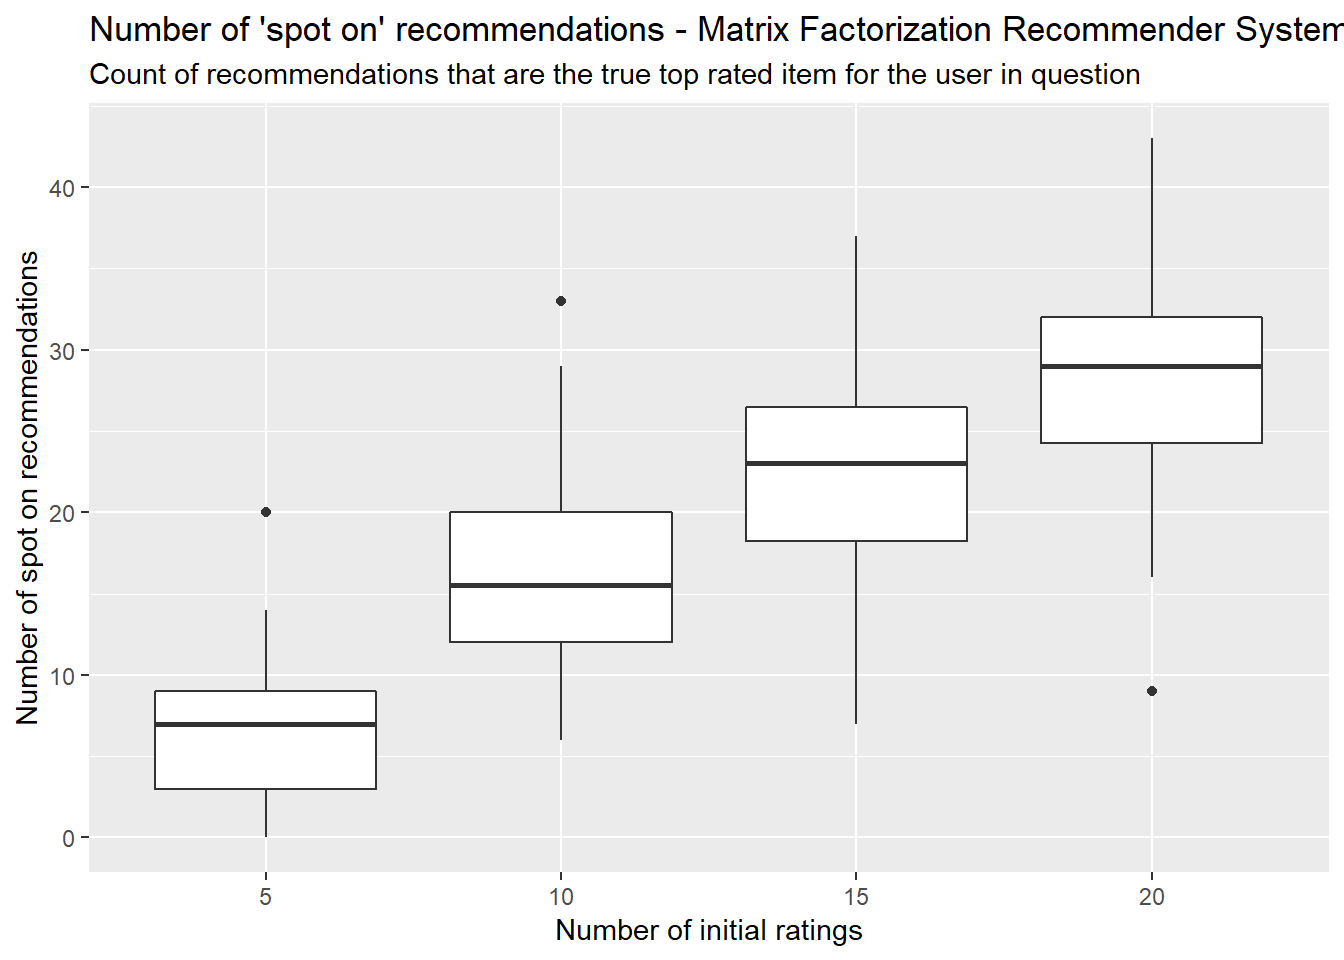
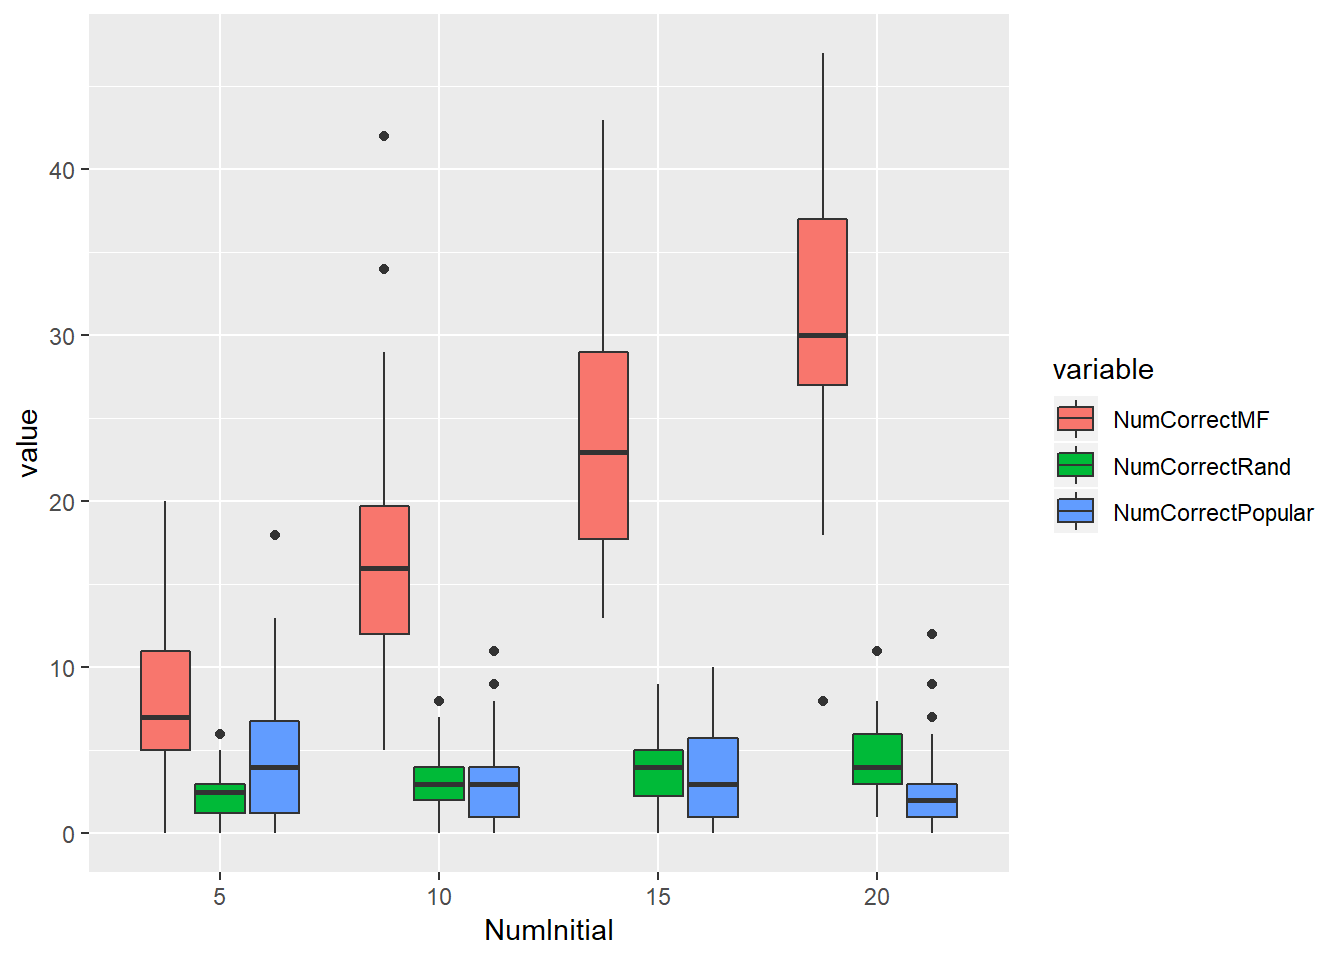
mh update

diff --git a/MHRecSys.html b/MHRecSys.html
@@ -214,11 +214,10 @@ $(document).ready(function () {
 
 <div id="set-up" class="section level2">
 <h2>1. Set-up</h2>
-<p>We first set a number of items, <span class="math inline">\(I\)</span>, and a number of users, <span class="math inline">\(U\)</span>, and decide how many items each user will have rated. The more items have been rated, the easier the unobserved ratings should be to infer. In this particular example we suppose that each item is a story that can be recommended to a user, although the techniques we are using can be used across many applications.</p>
+<p>We want to test how well a recommender system can detect some structure in the ratings of a population - i.e. how it can pick up similarities and patterns in the preferences of users. To assess this we will build a simple dataset that we know has some such structure in it, and therefore something that we may expect a reasonable method to be able to predict. We first set a number of items, <span class="math inline">\(I\)</span>, and a number of users, <span class="math inline">\(U\)</span>, and decide how many items each user will have rated. The more items have been rated, the easier the unobserved ratings should be to infer. In this particular example we suppose that each item is a story that can be recommended to a user, although the techniques we are using can be used across many applications.</p>
 <pre class="r"><code>n.items    &lt;- 40             # Number of items
 n.users    &lt;- 100            # Number of users
 n.initial  &lt;- 10             # Number of initial ratings (less than n.items)</code></pre>
-<p>We want to test how well a recommender system can detect some structure in the ratings of a population - i.e. how it can pick up similarities and patterns in the preferences of users. To assess this we will build a simple dataset that we know has some such structure in it, and therefore something that we may expect a reasonable method to be able to predict.</p>
 <p>Each user <span class="math inline">\(u\)</span> assigns a rating <span class="math inline">\(R_{ui}\)</span> to each item <span class="math inline">\(i\)</span>. The higher the rating, the more the user “likes” the item. We assume that ratings are generated from a linear model based on attributes of the users, and of the items.</p>
 <p>In particular, we assume that a user <span class="math inline">\(u\)</span> has two relevant binary attributes <span class="math inline">\(\beta_{u,1},\beta_{u,2}\)</span> which each are coded as 1 or -1. These could be things like whether they are over/under 25 years of age or their sex.</p>
 <p>Each item has two relevant attributes <span class="math inline">\(\gamma_{i,1}, \gamma_{i,2}\)</span> which take continuous values. These could be measures of things like how well a story captures the experiences of a particular sex or how relevant it is to younger people versus older people.</p>
@@ -243,7 +242,7 @@ for (i in 1:n.users){
 }
 # Transform to [0,1] scale
 true.ratings &lt;- apply(true.ratings,2,sigmoid)</code></pre>
-<p>We plot these ratings below in a heatmap - here darker colours represent higher ratings. Items are on the horizontal axis and users are on the vertical axis. The similarities within the groups, and the differences across them are quite clear. For the rest of this example, these ratings will be treated as ground truth, and we assume that if a user is recommended an item, they faithfully report their true rating of the item. Our objective is to recommend items to users that have high ratings.</p>
+<p>We plot these ratings below in a heatmap - here lighter colours represent higher ratings. Items are on the horizontal axis and users are on the vertical axis. The similarities within the groups, and the differences across them are quite clear. For the rest of this example, these ratings will be treated as ground truth, and we assume that if a user is recommended an item, they faithfully report their true rating of the item. Our objective is to recommend items to users that have high ratings.</p>
 <pre class="r"><code>ggplot(data = yy, aes(y=rowname, x=variable, fill=value)) + 
   geom_tile() +labs(x=&quot;Item&quot;,y=&quot;User&quot;,title=&quot;True Ratings&quot;) </code></pre>
 <p><img src="MHRecSys_files/figure-html/unnamed-chunk-5-1.png" width="672" /></p>
@@ -332,7 +331,7 @@ ggplot(data = xx, aes(y=rowname, x=variable, fill=value)) +
 <p>There are several ways to numerically evaluate the results. We may consider the root mean squared error (RMSE) of all the predictions:</p>
 <pre class="r"><code># Prediction accuracy - RMSE
 rmse(as.numeric(pred.ratings),as.numeric(true.ratings))</code></pre>
-<pre><code>## [1] 0.193662</code></pre>
+<pre><code>## [1] 0.205878</code></pre>
 <p>We could then compare this against the predictions from different models. Alternatively, we can look at the quality of the recommendations made by the model, which is arguably more important than its overall fit.</p>
 <p>Below, we consider recommending one item to each user. We choose the item with the highest predicted rating, amongst those that they have not previously rated for each user. We then calculate the number of times that this recommendation is the item that they truly would have rated highest (among those their rating hasn’t been revealed for) and the propotion of the total available rating score that is achieved by the recommendations made.</p>
 <pre class="r"><code># Recommendation accuracy
@@ -351,10 +350,10 @@ for(i in 1:n.users){
 
 # Recommendation accuracy - Number of spot on recommendations
 sum(pred.top1==true.top1)</code></pre>
-<pre><code>## [1] 13</code></pre>
+<pre><code>## [1] 31</code></pre>
 <pre class="r"><code># Recommendation accuracy - Percentage of available rating score
 sum(val.pred.top1)/sum(val.true.top1)</code></pre>
-<pre><code>## [1] 0.8783249</code></pre>
+<pre><code>## [1] 0.930521</code></pre>
 <p>We can compare these accuracy scores, against those for random recommendations, or recommending every user the most popular items that they haven’t themselves rated.</p>
 <pre class="r"><code>random.rec &lt;- numeric(n.users)
 val.random.rec &lt;- numeric(n.users)
@@ -363,9 +362,9 @@ for(i in 1:n.users){
   val.random.rec[i] &lt;- true.ratings[i,random.rec[i]]
 }
 sum(random.rec==true.top1)</code></pre>
-<pre><code>## [1] 4</code></pre>
+<pre><code>## [1] 2</code></pre>
 <pre class="r"><code>sum(val.random.rec)/sum(val.true.top1)</code></pre>
-<pre><code>## [1] 0.5497482</code></pre>
+<pre><code>## [1] 0.574682</code></pre>
 <pre class="r"><code>ave.obs.rate &lt;- numeric(n.items)
 for(j in 1:n.items){
   ave.obs.rate[j] &lt;- mean(obs.ratings[,j][obs.ratings[,j]!=0])
@@ -386,43 +385,22 @@ for(i in 1:n.users){
 sum(popular.rec==true.top1)</code></pre>
 <pre><code>## [1] 1</code></pre>
 <pre class="r"><code>sum(val.popular.rec)/sum(val.true.top1)</code></pre>
-<pre><code>## [1] 0.5628299</code></pre>
+<pre><code>## [1] 0.4857349</code></pre>
 </div>
 <div id="evaluation-over-many-repetitions" class="section level2">
 <h2>4. Evaluation over many repetitions</h2>
 <p>This is only a single sample’s results, we want to repeat this many times (and with different parameters) to get an idea of average performance, and how it is affected by the variability in the data/amount of observed data.</p>
 <p>We define a function which can be used to repeat these analyses, and implement it repeatedly for various parameter values.</p>
 <p>We can then plot the distribution of the number of correct guesses for different numbers of initial ratings.</p>
-<pre class="r"><code>ggplot(recdata,aes(x=NumInitial,y=NumCorrectMF))+ geom_boxplot()+
-  labs(x=&quot;Number of initial ratings&quot;,y=&quot;Number of spot on recommendations&quot;
-       ,title=&quot;Number of &#39;spot on&#39; recommendations - Matrix Factorization Recommender System&quot;, 
-subtitle=&quot;Count of recommendations that are the true top rated item for the user in question&quot;)</code></pre>
+<pre class="r"><code>recdata.melt &lt;- melt(recdata,id.vars=c(&quot;NumUsers&quot;,&quot;NumItems&quot;,&quot;NumInitial&quot;,&quot;ID&quot;),measure.vars=c(&quot;RMSEMF&quot;,&#39;NumCorrectMF&#39;,&#39;PropOracleMF&#39;,&quot;NumCorrectRand&quot;,                        &quot;PropOracleRand&quot;,&quot;NumCorrectPopular&quot;, &quot;PropOraclePopular&quot;))
+recdata.melt$NumInitial &lt;- as.factor(recdata.melt$NumInitial)
+
+ggplot(recdata.melt[recdata.melt$variable%in%c(&quot;NumCorrectMF&quot;,&quot;NumCorrectPopular&quot;,&quot;NumCorrectRand&quot;),]) +
+      geom_boxplot(aes(x=NumInitial, y=value,fill=variable))</code></pre>
 <p><img src="MHRecSys_files/figure-html/unnamed-chunk-15-1.png" width="672" /></p>
-<pre class="r"><code>ggplot(recdata,aes(x=NumInitial,y=NumCorrectRand))+ geom_boxplot()+
-  labs(x=&quot;Number of initial ratings&quot;,y=&quot;Number of spot on recommendations&quot;
-       ,title=&quot;Number of &#39;spot on&#39; recommendations - Matrix Factorization Recommender System&quot;, 
-subtitle=&quot;Count of recommendations that are the true top rated item for the user in question&quot;)</code></pre>
+<pre class="r"><code>ggplot(recdata.melt[recdata.melt$variable%in%c(&quot;PropOracleMF&quot;,&quot;PropOraclePopular&quot;,&quot;PropOracleRand&quot;),]) +
+      geom_boxplot(aes(x=NumInitial, y=value,fill=variable))</code></pre>
 <p><img src="MHRecSys_files/figure-html/unnamed-chunk-15-2.png" width="672" /></p>
-<pre class="r"><code>ggplot(recdata,aes(x=NumInitial,y=NumCorrectPopular))+ geom_boxplot()+
-  labs(x=&quot;Number of initial ratings&quot;,y=&quot;Number of spot on recommendations&quot;
-       ,title=&quot;Number of &#39;spot on&#39; recommendations - Matrix Factorization Recommender System&quot;, 
-subtitle=&quot;Count of recommendations that are the true top rated item for the user in question&quot;)</code></pre>
-<p><img src="MHRecSys_files/figure-html/unnamed-chunk-15-3.png" width="672" /></p>
-<pre class="r"><code>ggplot(recdata,aes(x=NumInitial,y=PropOracleMF))+ geom_boxplot()+
-  labs(x=&quot;Number of initial ratings&quot;,y=&quot;Number of spot on recommendations&quot;
-       ,title=&quot;Proportion of optimal rating - Matrix Factorization Recommender System&quot;, 
-subtitle=&quot;Count of recommendations that are the true top rated item for the user in question&quot;)</code></pre>
-<p><img src="MHRecSys_files/figure-html/unnamed-chunk-16-1.png" width="672" /></p>
-<pre class="r"><code>ggplot(recdata,aes(x=NumInitial,y=PropOracleRand))+ geom_boxplot()+
-  labs(x=&quot;Number of initial ratings&quot;,y=&quot;Number of spot on recommendations&quot;
-       ,title=&quot;Proportion of optimal rating - Random Recommender System&quot;, 
-subtitle=&quot;Count of recommendations that are the true top rated item for the user in question&quot;)</code></pre>
-<p><img src="MHRecSys_files/figure-html/unnamed-chunk-16-2.png" width="672" /></p>
-<pre class="r"><code>ggplot(recdata,aes(x=NumInitial,y=PropOraclePopular))+ geom_boxplot()+
-  labs(x=&quot;Number of initial ratings&quot;,y=&quot;Number of spot on recommendations&quot;
-       ,title=&quot;Proportion of optimal rating - Popularity Based Recommender System&quot;, 
-subtitle=&quot;Count of recommendations that are the true top rated item for the user in question&quot;)</code></pre>
-<p><img src="MHRecSys_files/figure-html/unnamed-chunk-16-3.png" width="672" /></p>
 </div>
 
 
